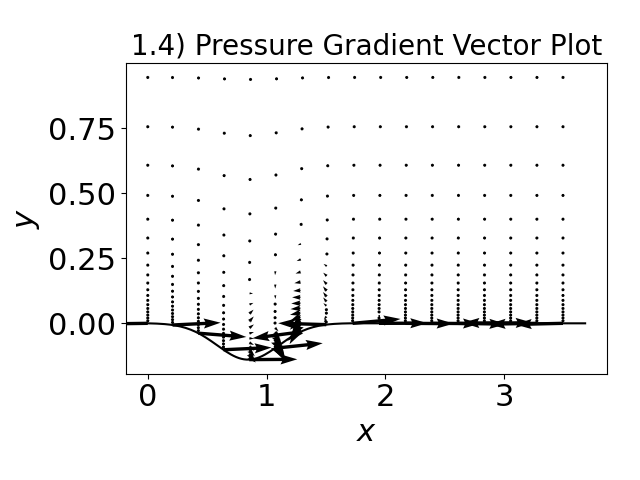
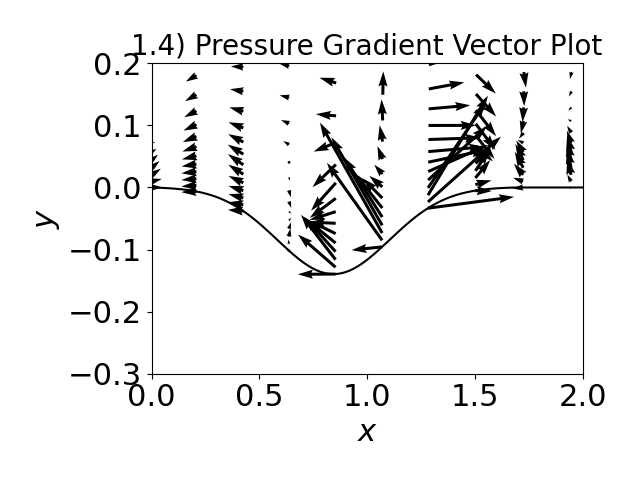
Small Update

diff --git a/pl_vect.py b/pl_vect.py
@@ -388,22 +388,23 @@ plt.tight_layout()
 
 
 dp_norm = np.sqrt(np.multiply(dpdx,dpdx) + np.multiply(dpdy,dpdy))
-dpdx[:,0] = np.divide(dpdx[:,0], dp_norm[:,0])
-dpdy[:,0] = np.divide(dpdy[:,0], dp_norm[:,0])
+#dpdx[:,0] = np.divide(dpdx[:,0], dp_norm[:,0])
+#dpdy[:,0] = np.divide(dpdy[:,0], dp_norm[:,0])
 
 # Pressure
 fig43 = plt.figure("Figure 1.4c")
 k=10# plot every
-plt.quiver(x2d[::k,::k], y2d[::k,::k], dpdx[::k,::k], dpdy[::k,::k], width = 0.007, scale=10)
+plt.quiver(x2d[::k,::k], y2d[::k,::k], -dpdx[::k,::k], -dpdy[::k,::k], width = 0.007)
 plt.plot(x2d[:,0],y2d[:,0], 'k-')
 plt.xlabel("$x$"); plt.ylabel("$y$")
 plt.title("1.4) Pressure Gradient Vector Plot", fontsize=20)
+plt.axis([0, 2, -0.3, 0.2])
 plt.tight_layout()
 
 # Viscous x
 fig44 = plt.figure("Figure 1.4d")
-k=10# plot every
-plt.quiver(x2d[::k,::k], y2d[::k,::k], nu*du2dx2[::k,::k], nu*du2dy2[::k,::k], width = 0.007, scale=1)
+k=20# plot every
+plt.quiver(x2d[::k,::k], y2d[::k,::k], nu*du2dx2[::k,::k], nu*dv2dx2[::k,::k], width = 0.005, scale = 0.05)
 plt.plot(x2d[:,0],y2d[:,0], 'k-')
 plt.xlabel("$x$"); plt.ylabel("$y$")
 plt.title("1.4) Viscous Diffusion x", fontsize=20)
@@ -411,15 +412,12 @@ plt.tight_layout()
 
 # Viscous y
 fig45 = plt.figure("Figure 1.4e")
-k=10# plot every
-plt.quiver(x2d[::k,::k], y2d[::k,::k], nu*dv2dx2[::k,::k], nu*dv2dy2[::k,::k], width = 0.007, scale=0.1)
+k=20# plot every
+plt.quiver(x2d[::k,::k], y2d[::k,::k], nu*du2dy2[::k,::k], nu*dv2dy2[::k,::k], width = 0.005, scale = 1)
 plt.plot(x2d[:,0],y2d[:,0], 'k-')
 plt.xlabel("$x$"); plt.ylabel("$y$")
 plt.title("1.4) Viscous Diffusion y", fontsize=20)
 plt.tight_layout()
-
-plt.show()
-plt.close('all')
 
 # ---- A_1.5)
 
